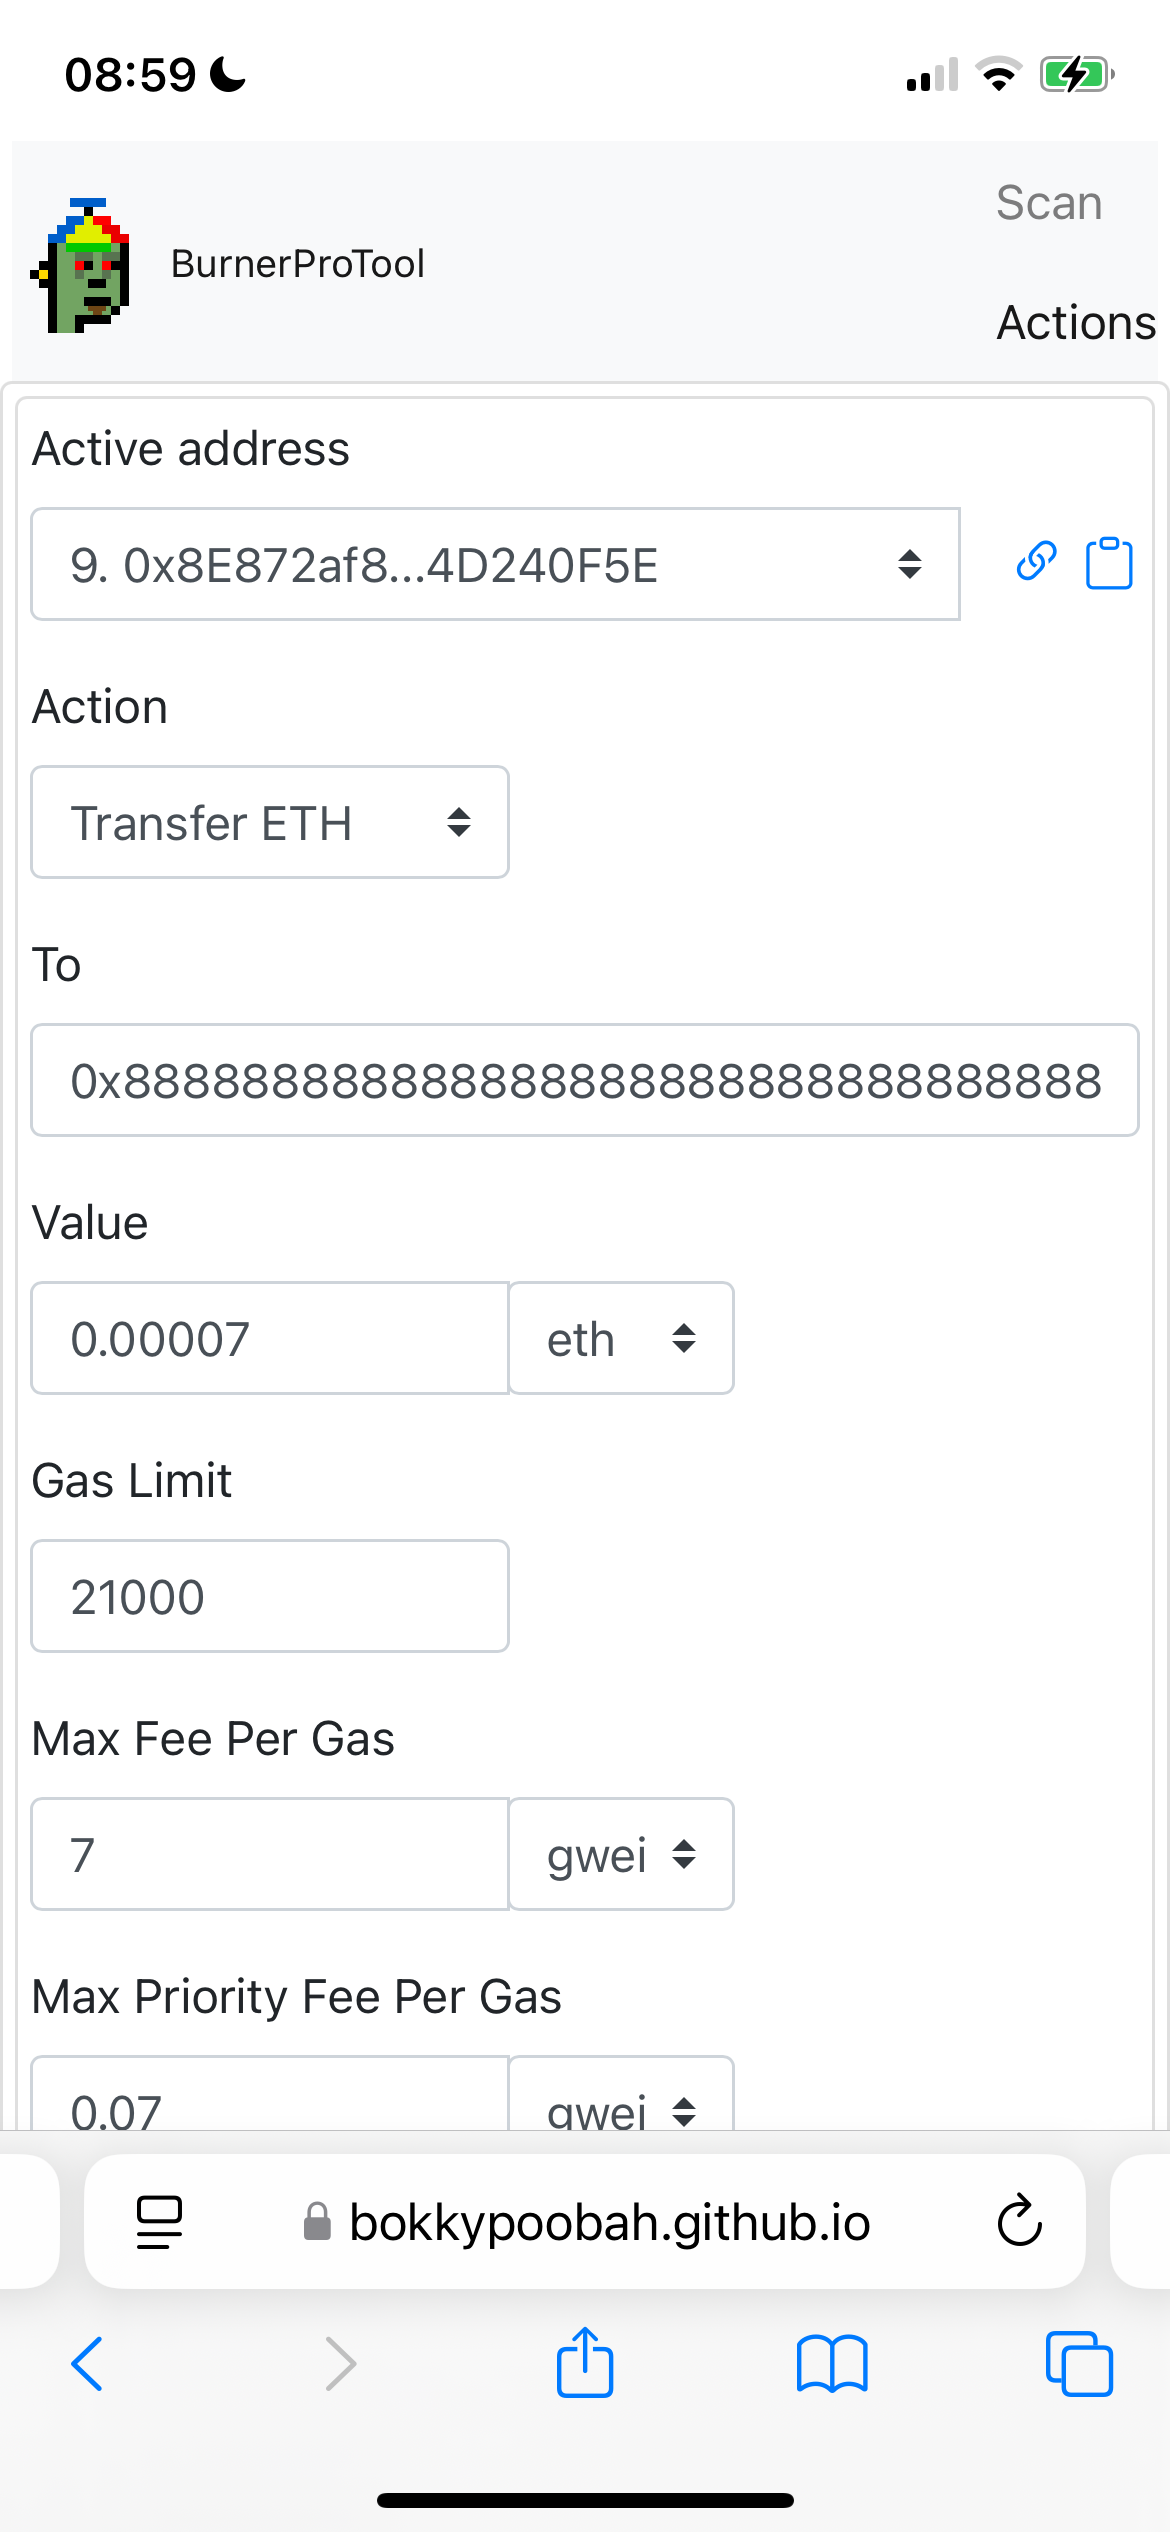
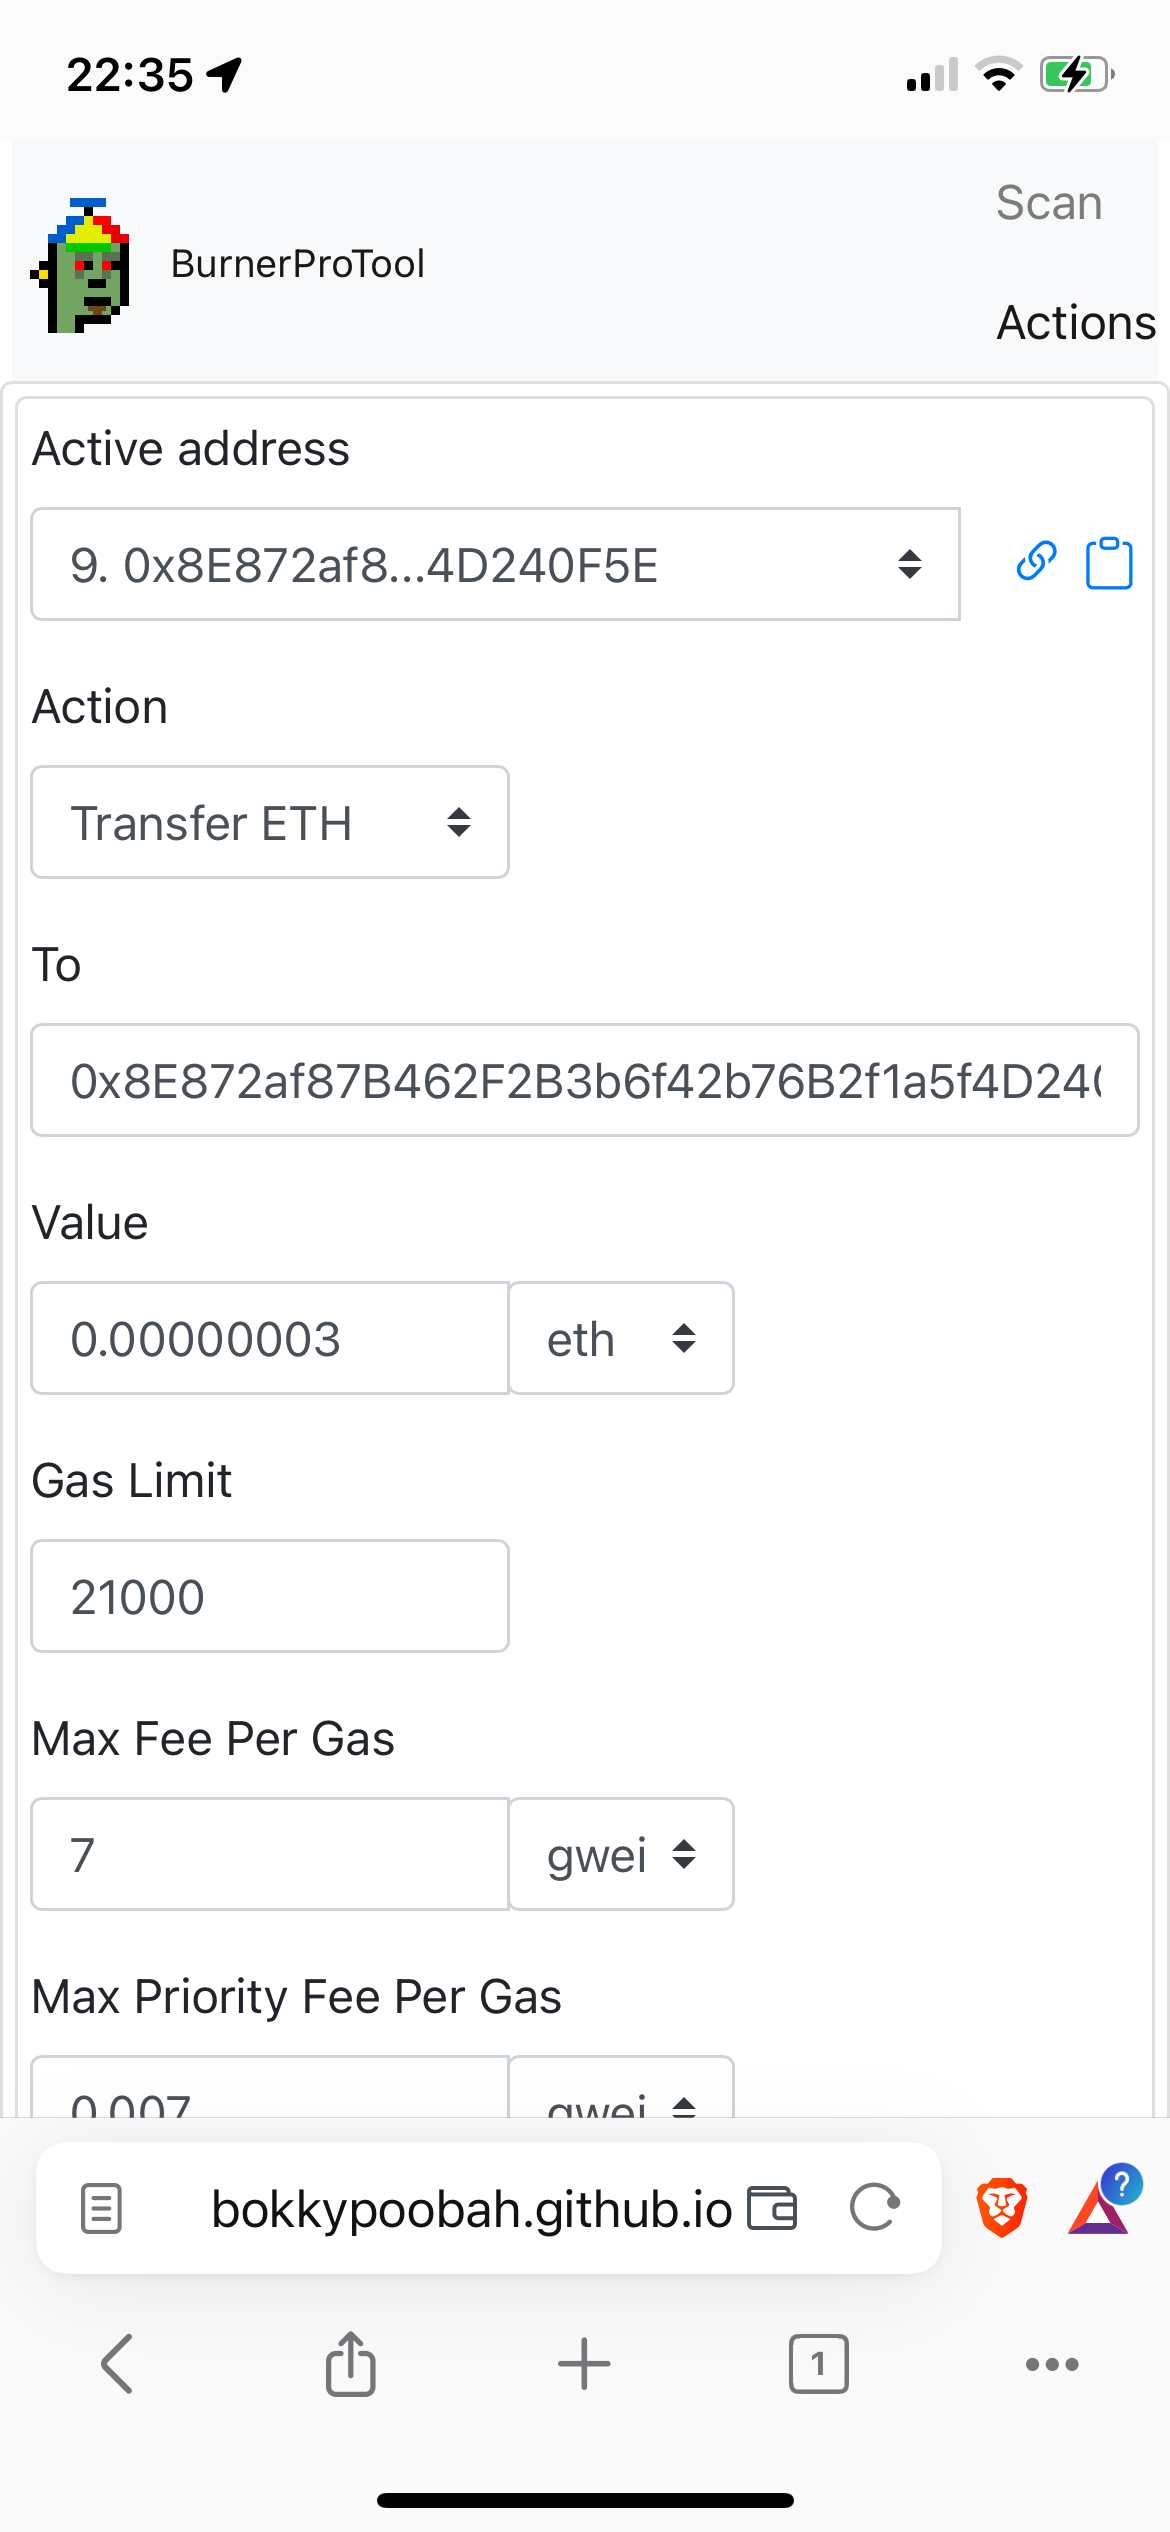
transfer eth success!

diff --git a/README.md b/README.md
@@ -10,13 +10,17 @@ Sample screen after scanning a Burner Pro NFC card. When using with a web3 enabl
 
 #### Sign Transfer ETH Message
 
-Slot 9 selected, with some test data
+Slot 9 selected, with some test data. Loaded in Brave on mobile for web3 and NFC support
 
 <kbd><img src="images/signtransfereth01.png" width="400" /></kbd>
 
 Enter password, click [Scan NFC To Sign] and scan the NFC card
 
 <kbd><img src="images/signtransfereth02.png" width="400" /></kbd>
+
+Transaction [0xc2027...b03c](https://etherscan.io/tx/0xc2027cc88e37ef02a99f30d2ce7658bf65643d6ca0d6228799d6184a71e4b03c) sent automatically via web3
+
+<kbd><img src="images/signtransfereth03.png" width="400" /></kbd>
 
 <br />
 
